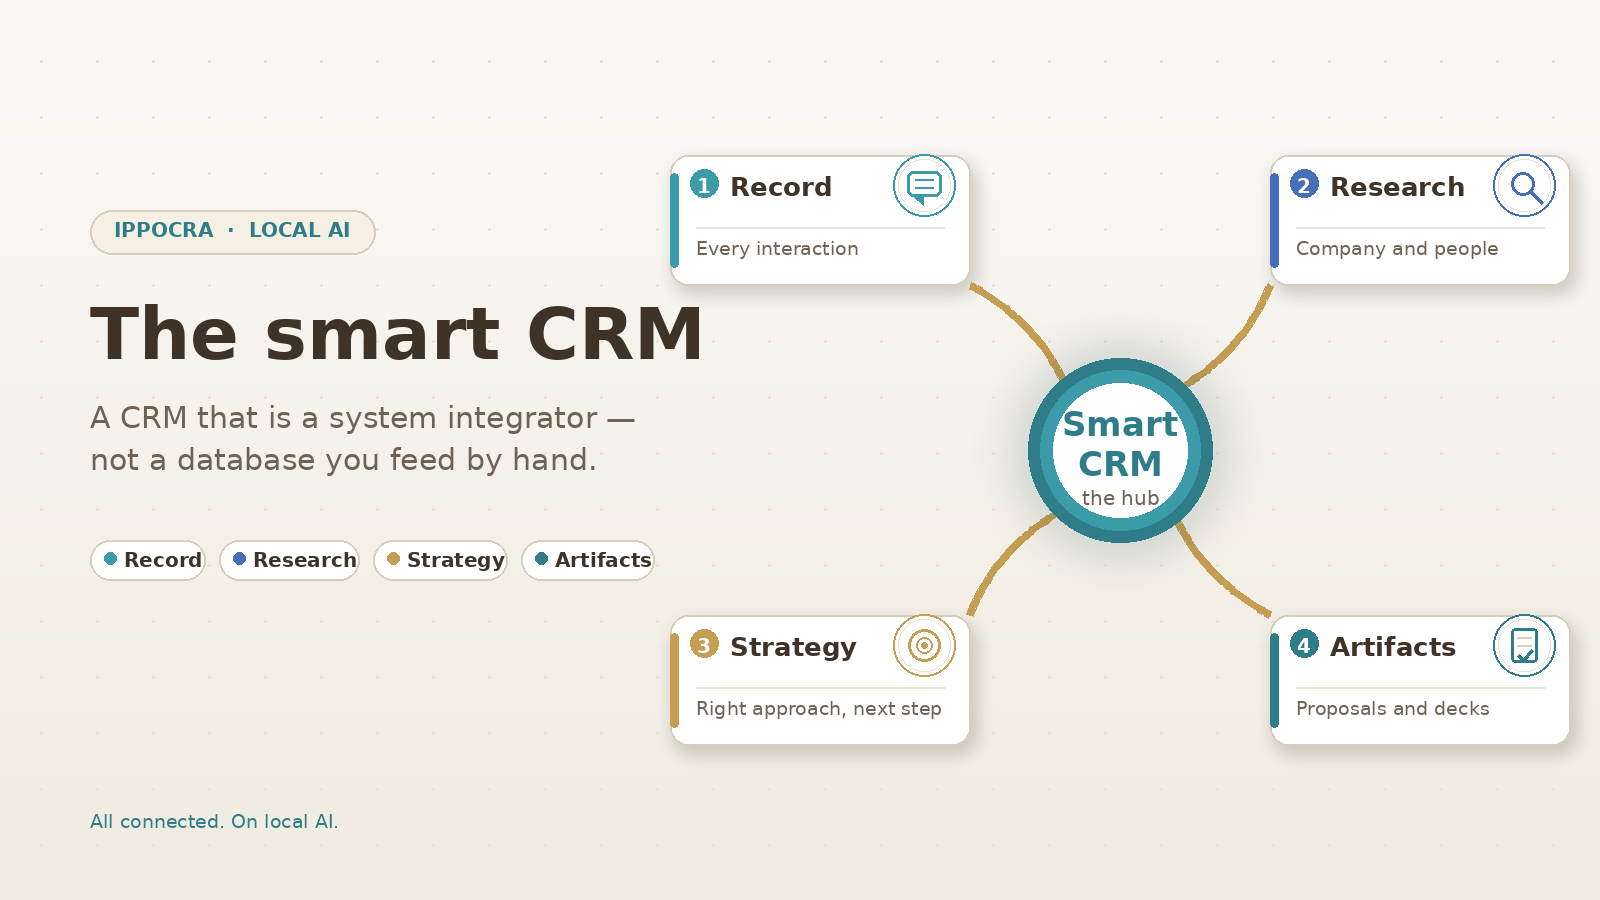
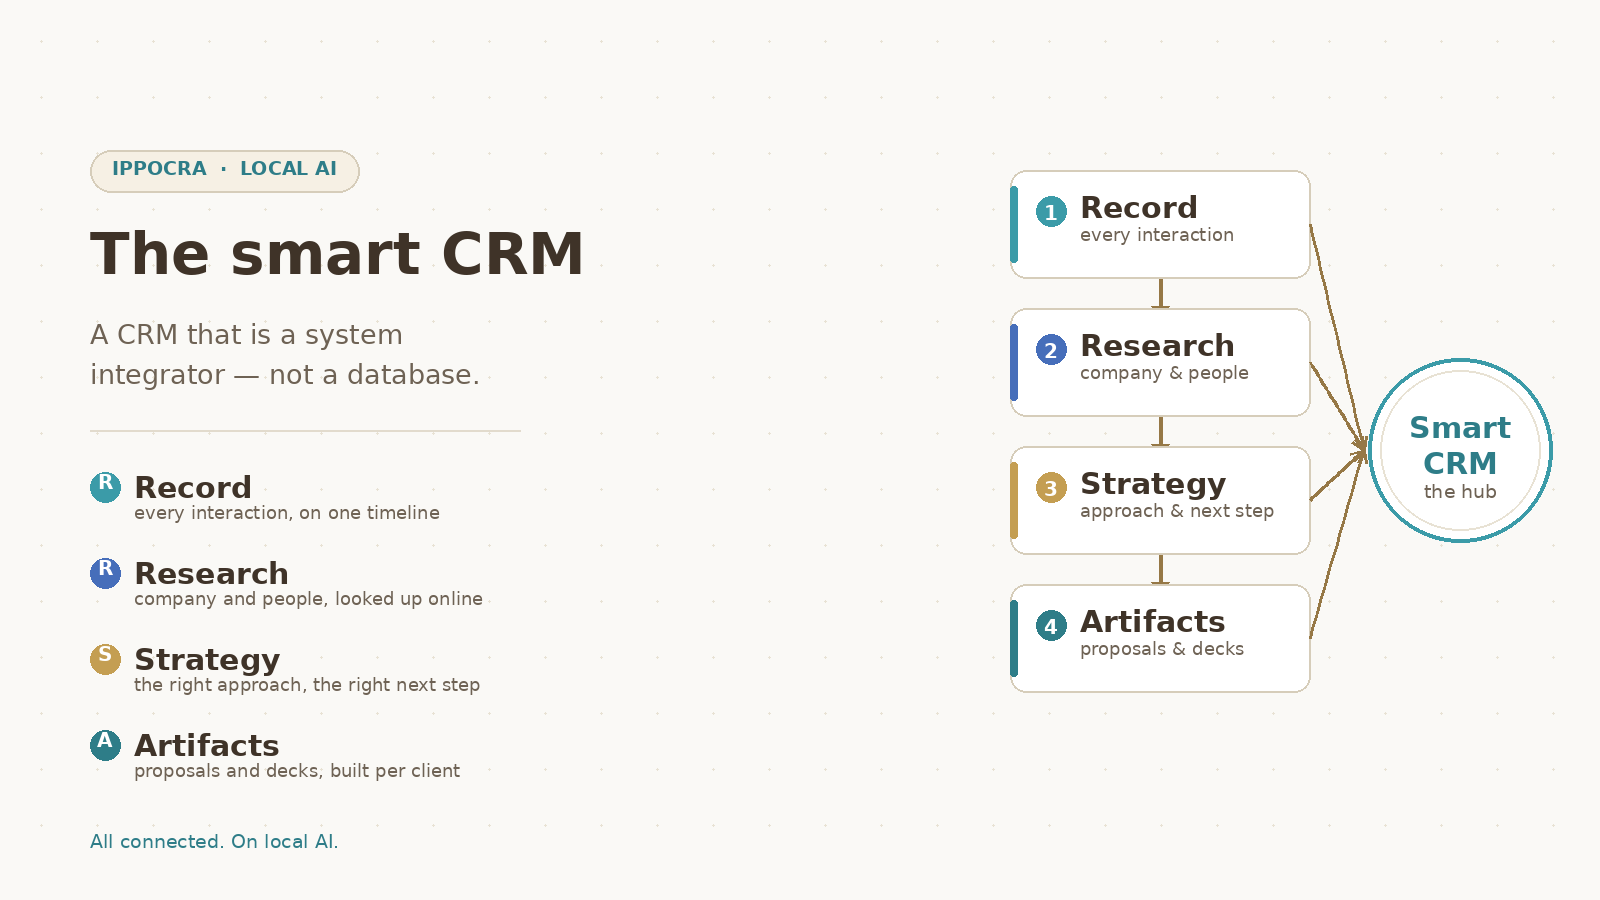
feat(blog): schematic teaser at top, infographic mid-post, drop youtube embed

diff --git a/_posts/it/2026-08-28-il-crm-intelligente-quando-un-crm-diventa-un-system-integrator.md b/_posts/it/2026-08-28-il-crm-intelligente-quando-un-crm-diventa-un-system-integrator.md
@@ -14,6 +14,10 @@ classes: wide
 
 **Un CRM è stato costruito per archiviare dati. Un CRM intelligente è costruito per lavorare.**
 
+<p style="text-align:center;">
+  <img src="/assets/images/screenshots/smart-crm-teaser.webp" alt="Il CRM intelligente: un system integrator, non un database" style="max-width:920px;width:100%;border-radius:12px;box-shadow:0 4px 24px rgba(15,59,46,0.10);margin:1.5rem 0;"/>
+</p>
+
 Questa è una storia che volevamo raccontare. Cos'è un CRM intelligente? Prima di tutto, cos'è un CRM?
 
 Un CRM è un Customer Relationship Manager — un software che aiuta a tenere traccia dei propri prospect e dei propri clienti. I CRM sono sempre stati piuttosto statici. Si inseriscono tutte le informazioni a mano, si possono configurare delle automazioni che ricordano di fare qualcosa per un cliente, ma alla fine è estremamente tempo-intensivo e macchinoso. E nella maggior parte dei casi, i CRM tendono a invecchiare e a non essere più usati.
@@ -44,6 +48,10 @@ Questa è l'idea dietro il CRM Ippocra. È un **system integrator**: connette qu
 4. **Gli artefatti.** Le cose che fanno davvero avanzare la trattativa — una proposta dedicata, una presentazione su misura, immagini, un video — generati per quel cliente specifico, conservati accanto al cliente.
 
 La parte "intelligente" è che le quattro aree si alimentano a vicenda. La ricerca aggiorna la scheda del contatto. La scheda informa la strategia. La strategia produce l'artefatto. Il risultato dell'artefatto torna nella cronologia. In un CRM classico esiste solo la prima casella, e tutto il resto lo copi a mano dalla tua email, dalle tue note e dalla tua testa.
+
+<p style="text-align:center;">
+  <img src="/assets/images/screenshots/smart-crm-social.png" alt="Il CRM Ippocra come hub: registro, ricerca, strategia e artefatti tutti connessi da un LLM locale" style="max-width:760px;width:100%;border-radius:12px;box-shadow:0 4px 24px rgba(15,59,46,0.10);margin:1.5rem 0;"/>
+</p>
 
 ## Un esempio reale: da un messaggio WhatsApp a una proposta
 
@@ -117,12 +125,3 @@ ILAI è il prodotto: un'intelligenza artificiale locale che gira sulla tua infra
 ---
 
 <em>Correlato: [Creare video con IA in locale: come Ippocra produce contenuti video con ILAI](/creare-video-ai-in-locale) — un altro esempio di un processo adiacente alle vendite (produzione di contenuti) che gestiamo interamente con IA locale.</em>
-
----
-
-<div style="position:relative;width:100%;max-width:640px;margin:1.5rem auto;padding-bottom:56.25%;height:0;">
-  <iframe src="https://www.youtube.com/embed/eCrFgt9Lbl0" title="ILAI — Ippocra Local Artificial Intelligence"
-    style="position:absolute;top:0;left:0;width:100%;height:100%;border:0;border-radius:12px;"
-    allow="accelerometer; autoplay; clipboard-write; encrypted-media; gyroscope; picture-in-picture" allowfullscreen loading="lazy">
-  </iframe>
-</div>

diff --git a/_posts/en/2026-08-28-the-smart-crm-when-a-crm-becomes-a-system-integrator.md b/_posts/en/2026-08-28-the-smart-crm-when-a-crm-becomes-a-system-integrator.md
@@ -14,6 +14,10 @@ classes: wide
 
 **A CRM was built to store data. A smart CRM is built to work.**
 
+<p style="text-align:center;">
+  <img src="/assets/images/screenshots/smart-crm-teaser.webp" alt="The smart CRM: a system integrator, not a database" style="max-width:920px;width:100%;border-radius:12px;box-shadow:0 4px 24px rgba(15,59,46,0.10);margin:1.5rem 0;"/>
+</p>
+
 This is a story we wanted to tell. What is a smart CRM? First, what is a CRM?
 
 A CRM is a Customer Relationship Manager — software that helps you track your prospects and your clients. CRMs have always been pretty static. You enter all the information by hand, you can set up some kind of automation that reminds you to take action on a client, but at the end of the day it is extremely time-consuming and cumbersome. And most of the time, CRMs tend to rot and stop being used.
@@ -44,6 +48,10 @@ That is the idea behind the Ippocra CRM. It is a **system integrator**: it conne
 4. **The artifacts.** The things that actually move the deal forward — a dedicated proposal, a custom presentation, images, a video — generated for that specific client, stored next to the client.
 
 The "smart" part is that the four areas feed each other. Research updates the contact card. The contact card informs the strategy. The strategy produces the artifact. The artifact's result goes back into the timeline. In a classic CRM only the first box exists, and you copy everything else by hand from your email, your notes, and your head.
+
+<p style="text-align:center;">
+  <img src="/assets/images/screenshots/smart-crm-social.png" alt="The Ippocra CRM as a hub: record, research, strategy, and artifacts all connected by a local LLM" style="max-width:760px;width:100%;border-radius:12px;box-shadow:0 4px 24px rgba(15,59,46,0.10);margin:1.5rem 0;"/>
+</p>
 
 ## A real example: from a WhatsApp message to a proposal
 
@@ -117,12 +125,3 @@ ILAI is the product: a local artificial intelligence that runs on your infrastru
 ---
 
 <em>Related: [Creating videos with local AI: how Ippocra produces video content with ILAI](/creare-video-ai-in-locale) — another example of a sales-adjacent process (content production) that we run entirely on local AI.</em>
-
----
-
-<div style="position:relative;width:100%;max-width:640px;margin:1.5rem auto;padding-bottom:56.25%;height:0;">
-  <iframe src="https://www.youtube.com/embed/eCrFgt9Lbl0" title="ILAI — Ippocra Local Artificial Intelligence"
-    style="position:absolute;top:0;left:0;width:100%;height:100%;border:0;border-radius:12px;"
-    allow="accelerometer; autoplay; clipboard-write; encrypted-media; gyroscope; picture-in-picture" allowfullscreen loading="lazy">
-  </iframe>
-</div>
